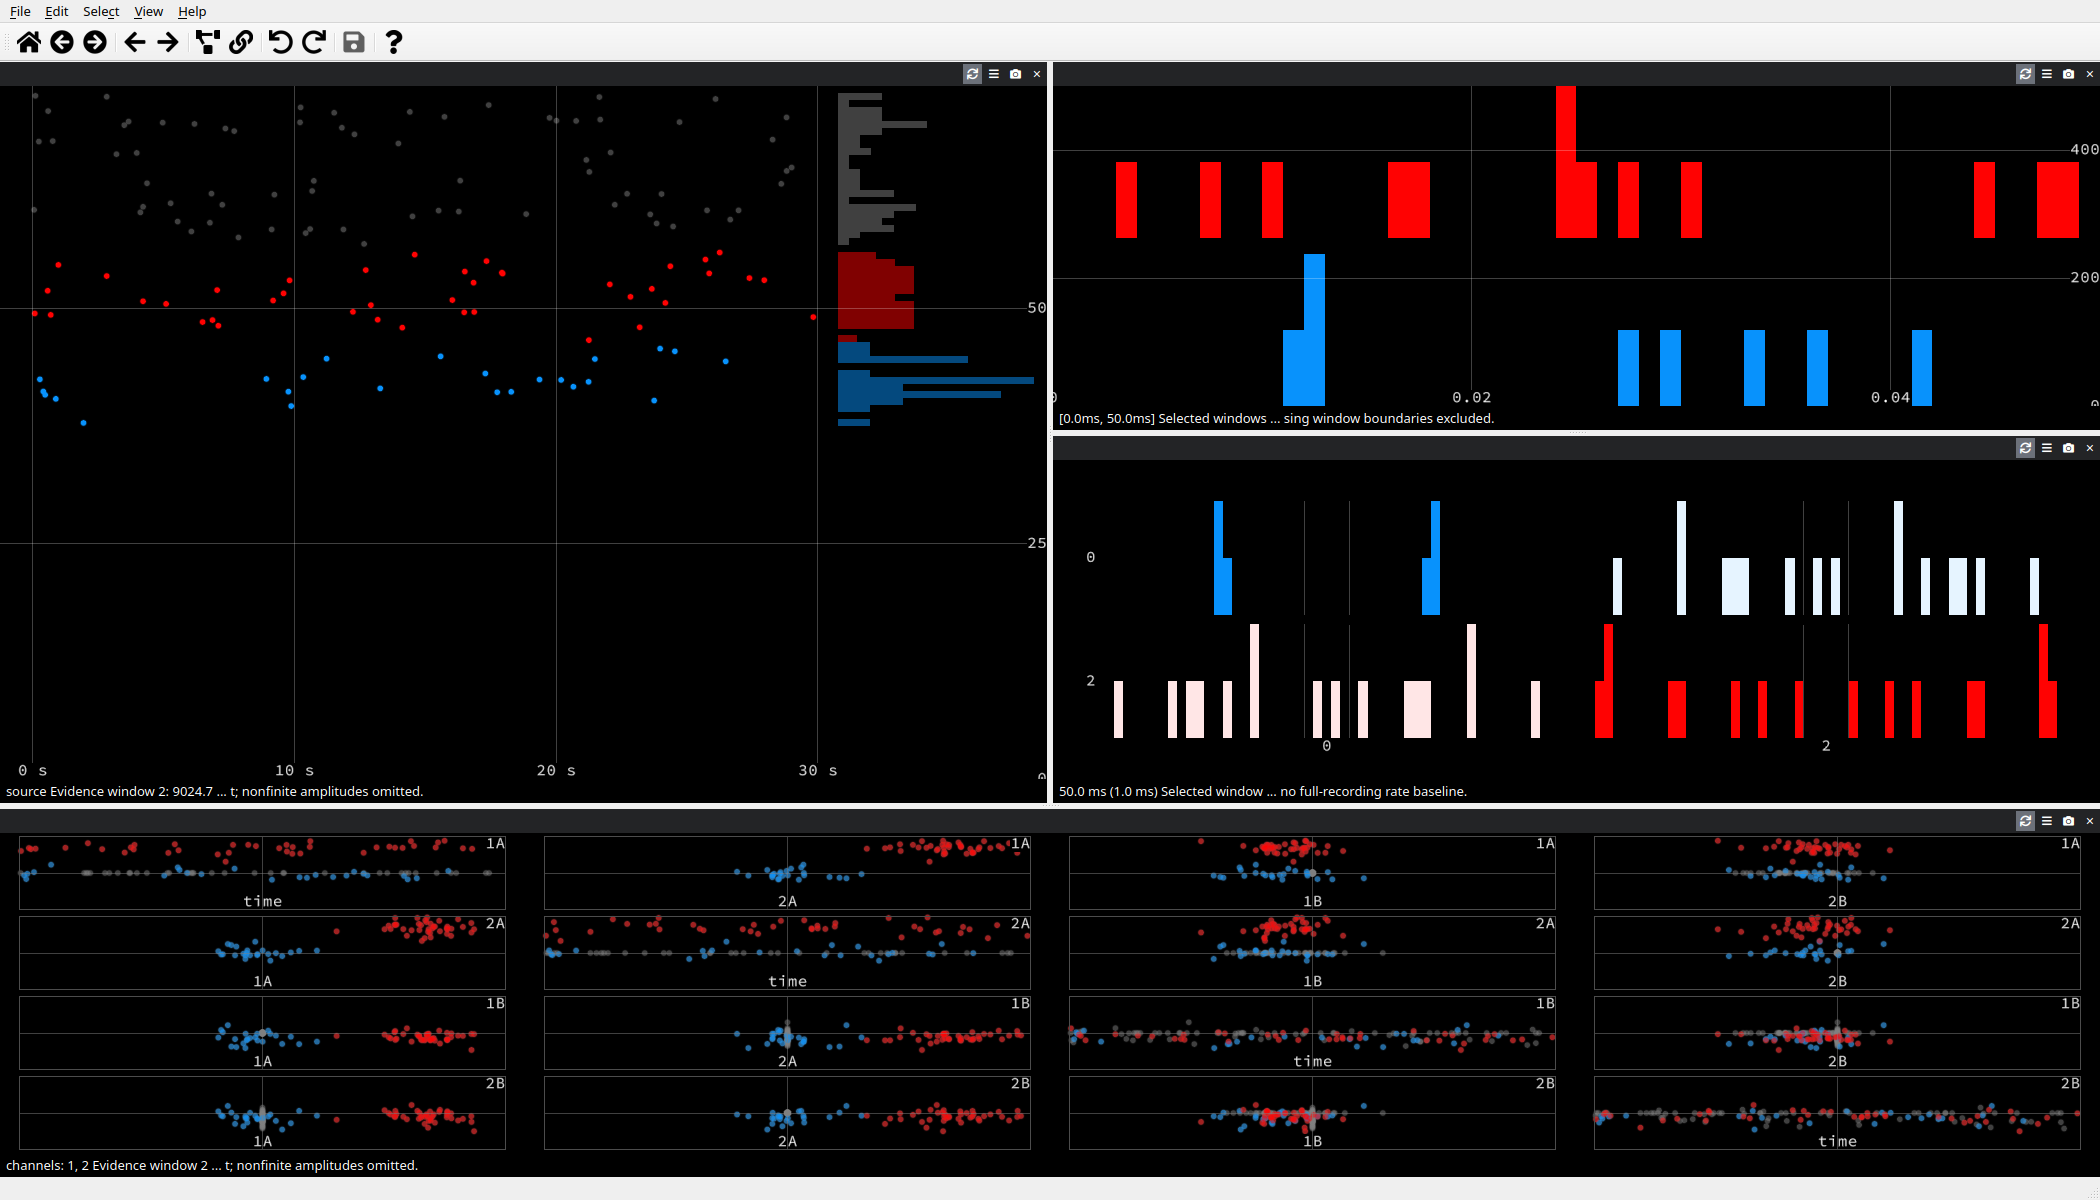
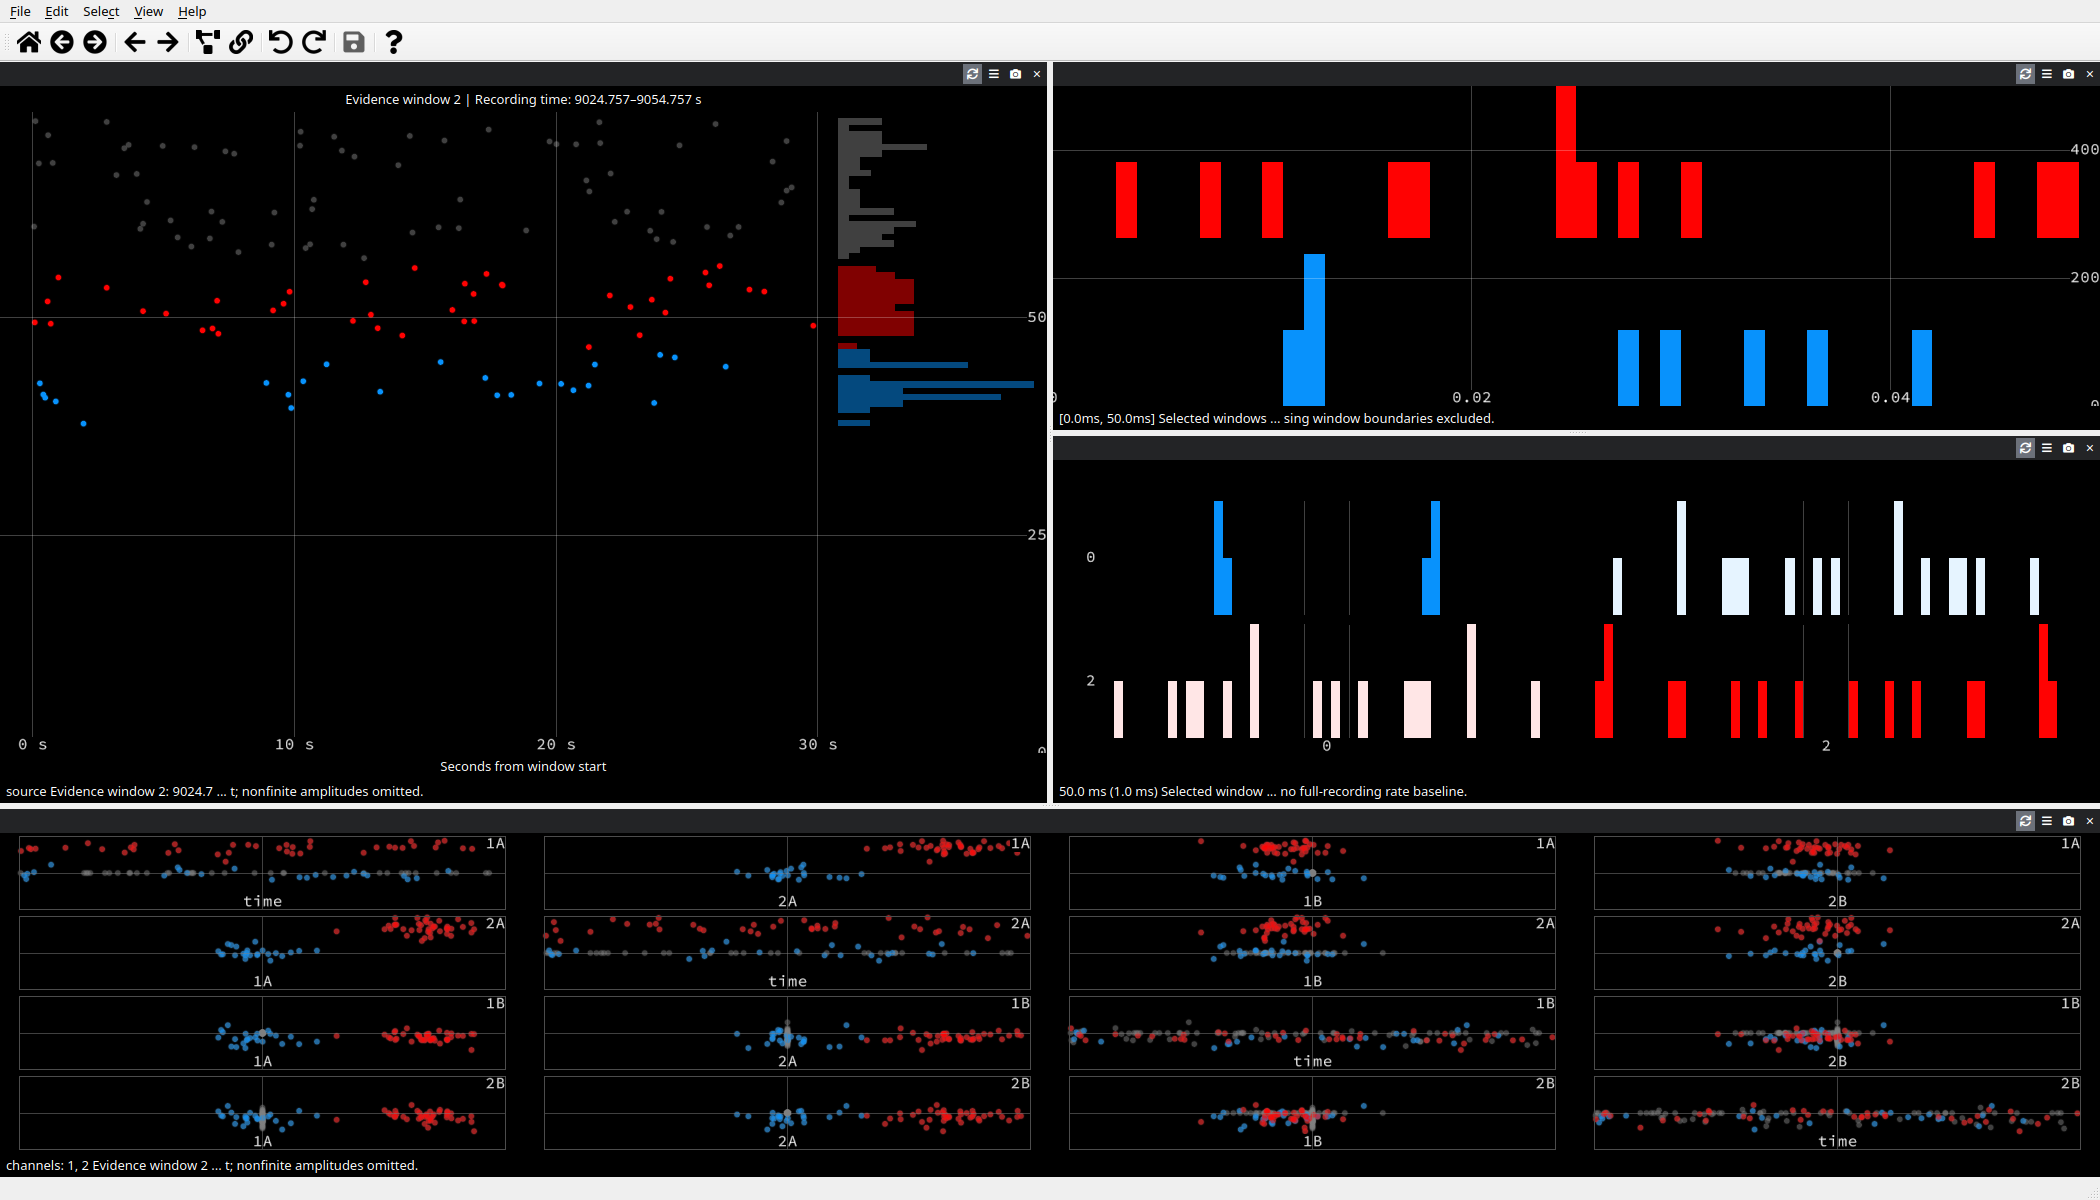
Label evidence-window time axes and display absolute recording range

diff --git a/phy/apps/large_recording/views.py b/phy/apps/large_recording/views.py
@@ -1,6 +1,7 @@
 """Explicitly sampled statistics and window-relative amplitude views."""
 
 from phy.cluster.views import AmplitudeView, CorrelogramView, ISIView
+from phy.gui.qt import QLabel, Qt
 
 
 class SampledISIView(ISIView):
@@ -13,6 +14,27 @@ class SampledCorrelogramView(CorrelogramView):
 
 class EvidenceAmplitudeView(AmplitudeView):
     """Raw source amplitude in an explicitly rebased evidence window."""
+
+    window_caption = 'Recording time unavailable'
+
+    def set_window_context(self, index, start_seconds, end_seconds):
+        self.window_caption = (
+            f'Evidence window {index} | Recording time: {start_seconds:.3f}–{end_seconds:.3f} s'
+        )
+        if hasattr(self, 'window_label'):
+            self.window_label.setText(self.window_caption)
+
+    def attach(self, gui):
+        super().attach(gui)
+        layout = self.dock.widget().layout()
+        self.window_label = QLabel(self.window_caption)
+        self.window_label.setWordWrap(True)
+        self.time_axis_label = QLabel('Seconds from window start')
+        for label in (self.window_label, self.time_axis_label):
+            label.setAlignment(Qt.AlignCenter)
+            label.setStyleSheet('color: white; background-color: black; padding: 4px;')
+        layout.insertWidget(0, self.window_label)
+        layout.insertWidget(layout.count() - 1, self.time_axis_label)
 
     def _get_data_bounds(self, bunchs):
         if not any(len(bunch.amplitudes) for bunch in bunchs):

diff --git a/phy/apps/large_recording/tests/test_gui_lifecycle.py b/phy/apps/large_recording/tests/test_gui_lifecycle.py
@@ -11,6 +11,25 @@ from phy.apps.large_recording.tests.test_adapter import make_controller, make_gu
 from phy.apps.template.gui import TemplateController
 
 
+def test_window_time_labels_follow_navigation(qtbot, tmp_path):
+    _, controller = make_controller(tmp_path, sparse=True)
+    gui = controller.create_gui(default_views=['EvidenceAmplitudeView'], do_prompt_save=False)
+    try:
+        view = gui.get_view('EvidenceAmplitudeView')
+        assert view.time_axis_label.text() == 'Seconds from window start'
+        initial = view.window_label.text()
+        controller.inspect_evidence_window(1)
+        start, end = controller.current_evidence_window / controller.model.sample_rate
+        assert view.window_label.text() == (
+            f'Evidence window 1 | Recording time: {start:.3f}–{end:.3f} s'
+        )
+        assert view.window_label.text() != initial
+        assert view.duration == end - start
+    finally:
+        gui.close()
+        controller.close()
+
+
 def test_gui_observer_mutation_rolls_back_views_selection_and_journal(qtbot, tmp_path):
     _, controller = make_controller(tmp_path)
     gui = controller.create_gui(default_views=[], do_prompt_save=False)

diff --git a/phy/apps/large_recording/adapter.py b/phy/apps/large_recording/adapter.py
@@ -303,6 +303,11 @@ class BoundedTemplateController(TemplateController):
             split_is_eligible=lambda: False,
         )
         view.ex_status = self._window_status()
+        view.set_window_context(
+            self.evidence_window_index,
+            start / self.model.sample_rate,
+            end / self.model.sample_rate,
+        )
         return view
 
     def _window_status(self):
@@ -324,6 +329,9 @@ class BoundedTemplateController(TemplateController):
                 view.ex_status = self._window_status()
                 if isinstance(view, EvidenceAmplitudeView):
                     view.duration = (end - start) / self.model.sample_rate
+                    view.set_window_context(
+                        index, start / self.model.sample_rate, end / self.model.sample_rate
+                    )
                 view.canvas.panzoom.reset()
                 if view.cluster_ids:
                     view.plot()

diff --git a/docs/long-recordings.md b/docs/long-recordings.md
@@ -100,8 +100,10 @@ evidence windows, and acquisition gaps. Missing measurements and units without
 evidence remain visible as unavailable.
 
 Evidence Amplitude shows raw source scalar amplitudes from the currently
-selected evidence window. The Feature view also uses window-relative seconds;
-both views label the current window and reset their time origin when it changes.
+selected evidence window. The Feature view also uses window-relative seconds.
+The amplitude plot labels this axis as **Seconds from window start** and shows
+the window's recording-time range above the plot.
+Both views label the current window and reset their time origin when it changes.
 To inspect another retained window, choose **View > Inspect evidence window**
 and enter its zero-based index. Unit Stability keeps the full-recording time
 context visible while you inspect individual windows.

diff --git a/docs/changelog.md b/docs/changelog.md
@@ -22,6 +22,8 @@ behavior they verify rather than listed separately.
 - Bounded saves use validated atomic generations and reject conflicting saves
   from stale sessions. Unsupported selected-row splits are blocked.
 - Sparse cluster IDs no longer require dense allocations during clustering.
+- Bounded amplitude plots label seconds from window start and display the
+  window's recording-time range above the plot.
 
 ### Documentation
 
